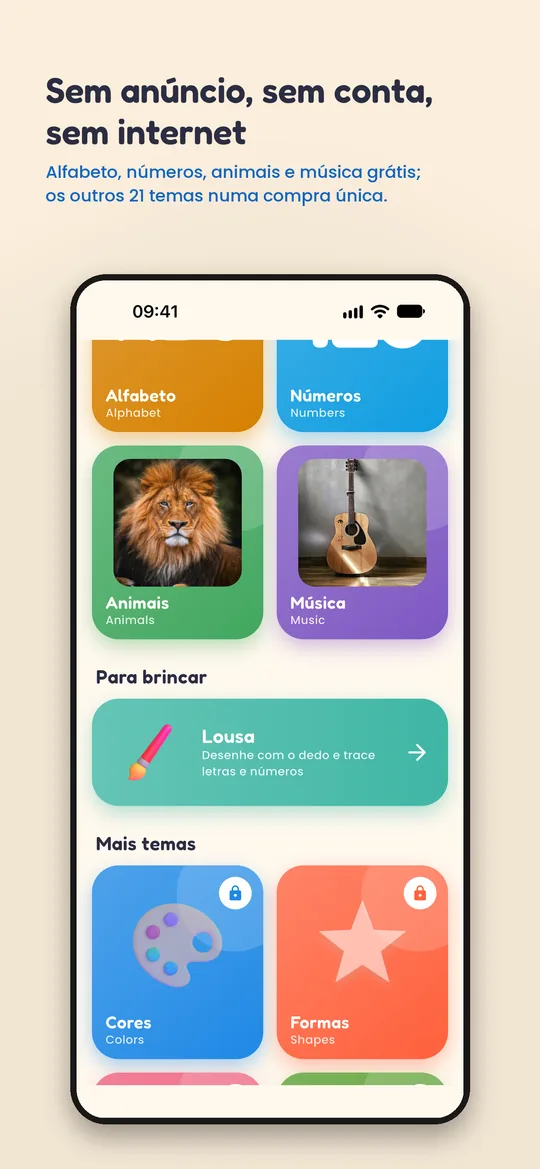
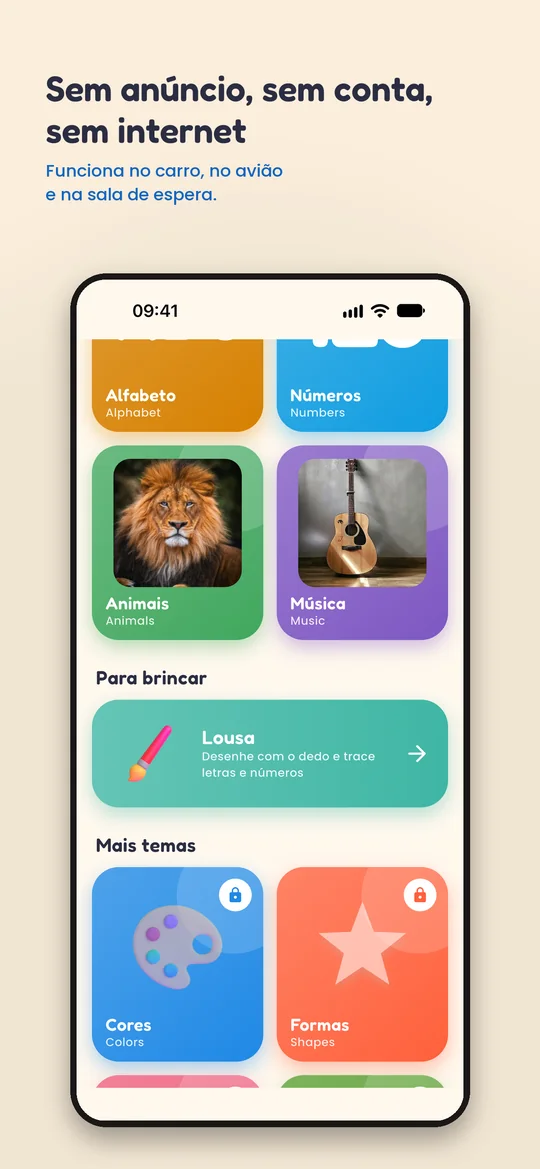
feat(ararinha): captura 2 da vitrine sem preço e "sem rastreamento" no lugar de "sem coleta de dados"
A legenda da estante é a mesma da App Store desde a recusa 2.3.7 de
16/10/2026 ("Funciona no carro, no avião e na sala de espera."). Com a
compra pelo RevenueCat na 1.1.0 (15), o cartão do app deixa de prometer
"sem coleta de dados", como a descrição das lojas e a política v2.

diff --git a/public/index.html b/public/index.html
@@ -174,8 +174,8 @@
               </div>
             </div>
             <p class="app-desc">Um livro de primeiras palavras para crianças de 2 a 6 anos: toca na foto e ouve o nome em
-              português ou em inglês, ou o som que o bicho faz. <strong>Sem anúncio, sem conta e sem coleta de
-              dados</strong>, e funciona sem internet.</p>
+              português ou em inglês, ou o som que o bicho faz. <strong>Sem anúncio, sem conta e sem
+              rastreamento</strong>, e funciona sem internet.</p>
             <ul class="app-points">
               <li>25 temas e mais de 650 fotos reais, escolhidas uma a uma</li>
               <li>Sons de verdade: bichos, veículos e 37 instrumentos</li>
